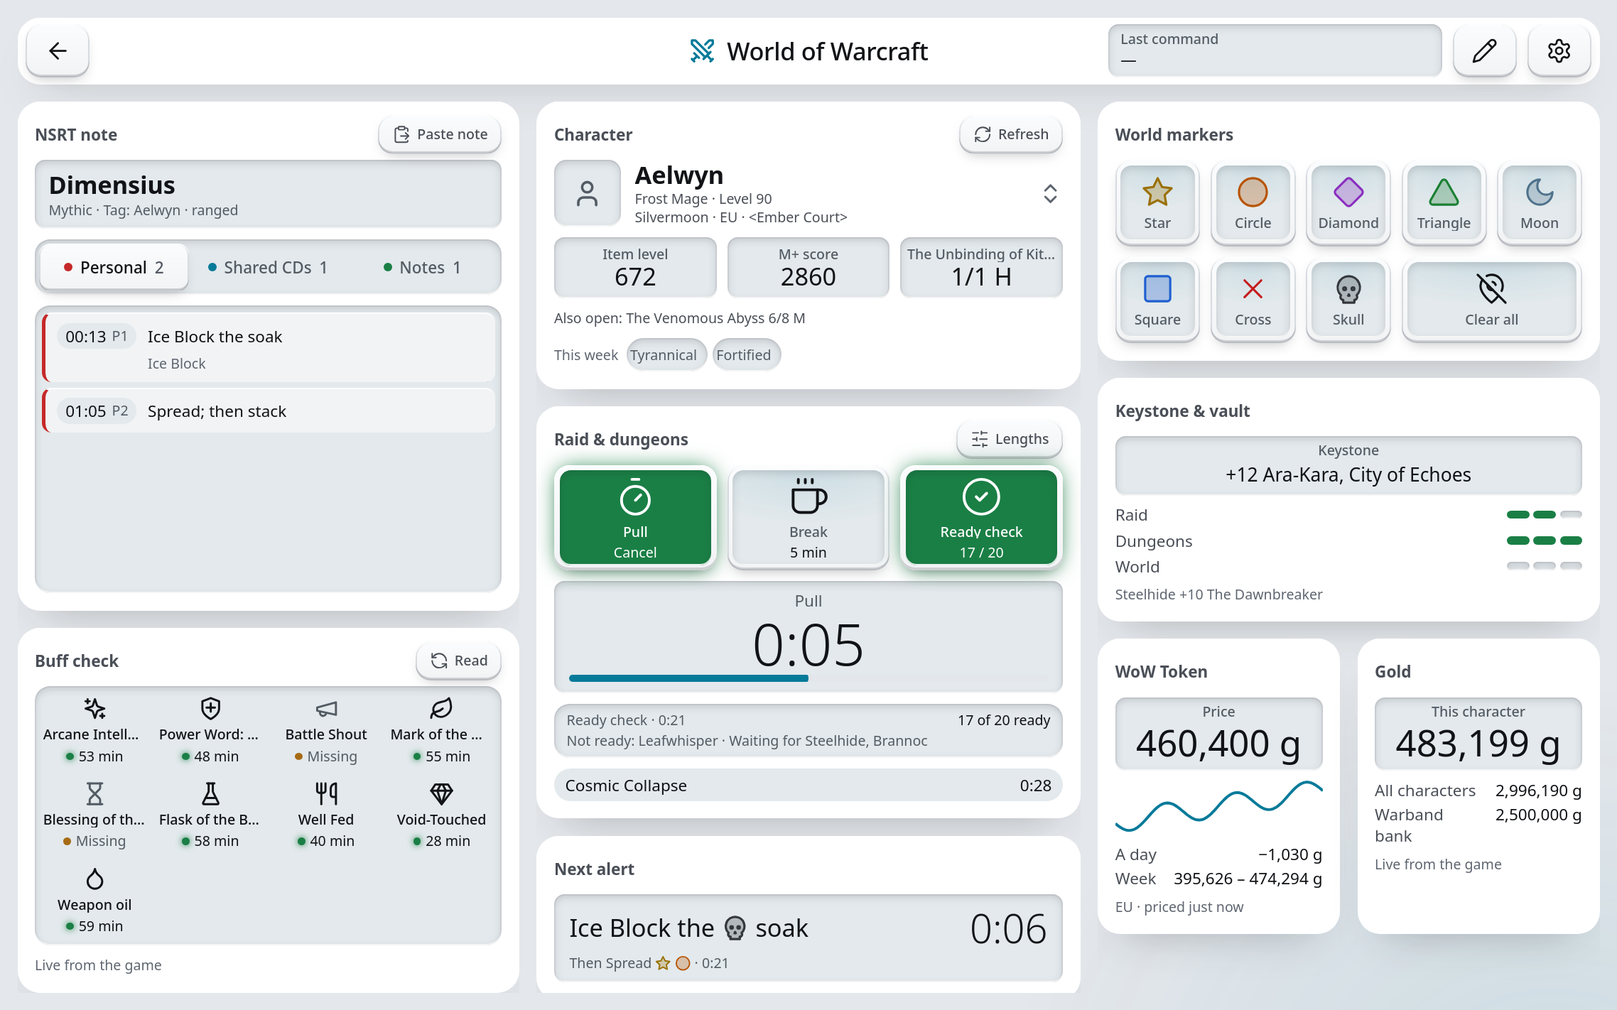
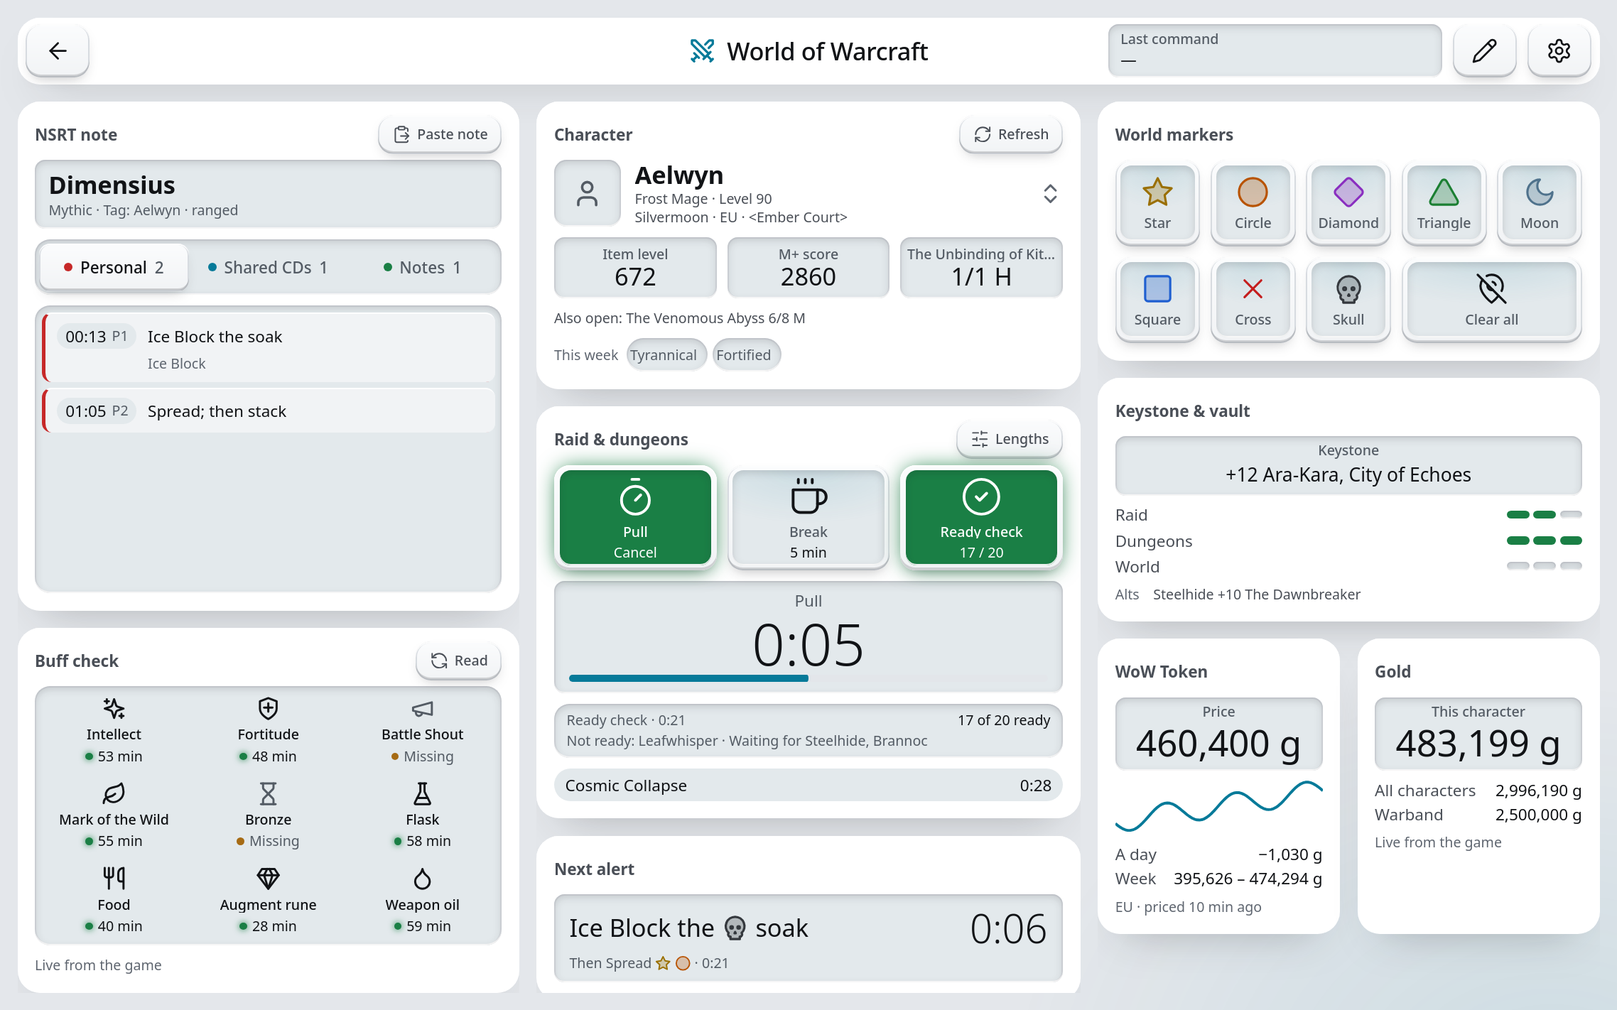
WoW page: design and UX fixes from a review
- Edit trays: a move that cannot happen is unlit (--line-strong); it was
  --text-3, as bright as the enabled --well-ink-2 in Graphite.
- Buff check: each cell names its check (Intellect, Flask, Augment rune);
  the buff found is in the tooltip. Cells are evened out per row (nine
  are 3 x 3, not 4 + 4 + 1).
- Key editor: opens scrolled to the key's command, marked by a lit edge;
  fields clear of the side's scroll bar.
- WoW settings: General in setup order (game folder first), a shorter
  addon paragraph; Install saves a typed folder first.
- Pickers: the search keeps its height, rows keep theirs (two-line
  descriptions overlapped), neutral glyphs with the current one lit,
  each opens at the top of its list.
- Keystone: the alts' keys are labelled; Gold: "Warband" on one line;
  Character: a raid's leading "The" dropped from its readout label.
- Phones: the last command is a row under the bar; the note's list is
  as tall as its reminders.
- Renders in docs/images/wow redone.

diff --git a/static/wow/core.js b/static/wow/core.js
@@ -332,6 +332,7 @@
             + (it.glyph ? `<i data-lucide="${esc(it.glyph)}" class="wow-pick-glyph"></i>` : '')
             + `<span class="wow-pick-text"><span class="wow-pick-name">${esc(it.label)}</span><span class="wow-pick-sub">${esc(it.sub || '')}</span></span>`
             + (it.current ? '<i data-lucide="check"></i>' : '') + '</button>').join('');
+        pickerEl.querySelector('.wow-picker-list').scrollTop = 0;   // one dialog for every picker: not where the last one was left
         const empty = pickerEl.querySelector('.wow-picker-empty');
         empty.hidden = items.length > 0;
         text(empty, o.empty || '');
@@ -918,6 +919,11 @@
         renderIcons(kedEl);
         kedEl.classList.add('active');
         q('.wow-keyed-search').focus({ preventScroll: true });
+        // The command the key sends now, in view: it was often far down the
+        // list (a raid warning under Chat), so nothing showed it chosen.
+        const list = q('.wow-keyed-list');
+        const row = list.querySelector('.wow-cmd-row[aria-selected="true"]');
+        if (row) list.scrollTop = Math.max(0, row.offsetTop - list.offsetTop - list.clientHeight / 3);
     }
 
     // A new key left empty is not kept.
@@ -1271,7 +1277,7 @@
     }
 
     function companionText(cs) {
-        if (!cs.installed) return server.settings.wow_path ? 'Not installed in this game folder.' : 'Set the game folder below first.';
+        if (!cs.installed) return server.settings.wow_path ? 'Not installed in this game folder.' : 'Set the game folder above first.';
         const old = cs.bundled && cs.installed !== cs.bundled;
         const seen = cs.link ? 'Its live link is on: this page shows the game as it changes.'
             : cs.answered == null ? 'It has not answered yet: /reload in WoW, and check it is on in the AddOns list.'
@@ -1285,13 +1291,13 @@
     function renderSettings() {
         const s = server.settings;
         const cs = server.companion || {};
-        setPanes.general.innerHTML = '<h3 class="settings-h">How keys reach the game</h3>'
-            + '<div class="notice"><i data-lucide="lightbulb"></i><p>WoW lets no addon talk to the PC, so the PC presses keys: WoW must be the window in front. '
-            + 'A key with a key slot is one key press (Ctrl+Alt+Shift+F1–F12), in combat too. With the Touch Dashboard addon, everything else goes through it without opening chat: an addon’s command it runs itself, Blizzard’s it loads into its run button (Ctrl+Alt+Shift+End). '
-            + 'In combat, or without the addon, Blizzard’s commands are typed into chat: Enter, Ctrl+V, Enter, and your clipboard is put back.</p></div>'
+        setPanes.general.innerHTML = '<h3 class="settings-h">Game folder</h3>'
+            + '<p class="settings-sub">The World of Warcraft folder, its _retail_ folder, or a SavedVariables folder. Checked every 5 seconds; WoW writes SavedVariables on /reload, logout and exit.</p>'
+            + `<div class="form-group"><label for="wow-set-path">Folder</label><input type="text" id="wow-set-path" maxlength="1024" autocomplete="off" spellcheck="false" placeholder="~/Games/battlenet/drive_c/Program Files (x86)/World of Warcraft/_retail_" value="${esc(s.wow_path)}"></div>`
+            + `<div class="form-group"><label for="wow-set-account">Account folder (optional)</label><input type="text" id="wow-set-account" maxlength="64" autocomplete="off" spellcheck="false" placeholder="The newest file wins" value="${esc(s.account)}"></div>`
+            + '<div class="wow-set-files"></div>'
             + '<h3 class="settings-h">Touch Dashboard addon</h3>'
-            + '<p class="settings-sub">Runs addon commands without chat, holds the key slots’ commands (no macros to make), runs Blizzard’s commands out of combat without chat, and shows this page your buffs, gold, bags, keystone and boss mod timers as they change: '
-            + 'a one-pixel line of coloured dots along the top edge of the game carries them, read from the game’s window (Linux; /tdc link off in WoW hides it). Once installed, this PC keeps it up to date in the game folder, and it tells you in game when a /reload would load a newer one. It reads only what the game lets addons see: nothing secret in combat, and no key is ever pressed because of what it reads.</p>'
+            + '<p class="settings-sub">Runs addon commands and Blizzard’s without opening chat, holds the key slots’ commands, and shows this page the game as it changes (Linux; /tdc link off in WoW hides its line of dots). This PC keeps it up to date, and it reads only what the game lets addons see.</p>'
             + '<div class="setting-group">'
             + settingRow('Use the addon', 'When it is installed', switchHtml('id="wow-set-companion"', s.companion !== false))
             + `<div class="setting-row"><div><label class="title">Status</label><label class="desc wow-comp-status">${esc(companionText(cs))}</label></div>`
@@ -1310,12 +1316,23 @@
             + ['eu', 'us', 'kr', 'tw'].map(r => `<option value="${r}"${s.region === r ? ' selected' : ''}>${r.toUpperCase()}</option>`).join('')
             + '</select></div>'
             + '</div>'
-            + '<h3 class="settings-h">Game folder</h3>'
-            + '<p class="settings-sub">The World of Warcraft folder, its _retail_ folder, or a SavedVariables folder. Checked every 5 seconds; WoW writes SavedVariables on /reload, logout and exit.</p>'
-            + `<div class="form-group"><label for="wow-set-path">Folder</label><input type="text" id="wow-set-path" maxlength="1024" autocomplete="off" spellcheck="false" placeholder="~/Games/battlenet/drive_c/Program Files (x86)/World of Warcraft/_retail_" value="${esc(s.wow_path)}"></div>`
-            + `<div class="form-group"><label for="wow-set-account">Account folder (optional)</label><input type="text" id="wow-set-account" maxlength="64" autocomplete="off" spellcheck="false" placeholder="The newest file wins" value="${esc(s.account)}"></div>`
-            + '<div class="wow-set-files"></div>';
-        setPanes.general.querySelector('[data-act="install"]').addEventListener('click', () => sendMessage({ type: 'wow_companion_install' }));
+            + '<h3 class="settings-h">How keys reach the game</h3>'
+            + '<div class="notice"><i data-lucide="lightbulb"></i><p>WoW lets no addon talk to the PC, so the PC presses keys: WoW must be the window in front. '
+            + 'A key with a key slot is one key press (Ctrl+Alt+Shift+F1–F12), in combat too. With the Touch Dashboard addon, everything else goes through it without opening chat: an addon’s command it runs itself, Blizzard’s it loads into its run button (Ctrl+Alt+Shift+End). '
+            + 'In combat, or without the addon, Blizzard’s commands are typed into chat: Enter, Ctrl+V, Enter, and your clipboard is put back.</p></div>';
+        // Install works from a folder typed but not saved yet: it is saved first
+        // (the server takes messages in order), so a first setup needs no
+        // round trip through Save.
+        const install = setPanes.general.querySelector('[data-act="install"]');
+        const pathIn = setPanes.general.querySelector('#wow-set-path');
+        pathIn.addEventListener('input', () => { install.disabled = !pathIn.value.trim(); });
+        install.addEventListener('click', () => {
+            const folder = { wow_path: pathIn.value.trim(), account: setPanes.general.querySelector('#wow-set-account').value.trim() };
+            if (folder.wow_path !== server.settings.wow_path || folder.account !== server.settings.account) {
+                sendMessage({ type: 'wow_settings_save', wow_addons: folder });
+            }
+            sendMessage({ type: 'wow_companion_install' });
+        });
         renderFiles();
 
         // Addons: one group each, its switch first.

diff --git a/static/wow/modules/game.js b/static/wow/modules/game.js
@@ -14,6 +14,13 @@
         intellect: 'sparkles', fortitude: 'shield-plus', shout: 'megaphone', wild: 'leaf', bronze: 'hourglass',
         skyfury: 'cloud-lightning', flask: 'flask-conical', food: 'utensils', rune: 'gem', weapon: 'droplet',
     };
+    // The check's own name on each cell; the buff the game has (a flask's,
+    // the rune's "Void-Touched") is in its tooltip and spoken label. The
+    // game's names ran past a cell: "Power Word: …", "Flask of the B…".
+    const SHORT = {
+        intellect: 'Intellect', fortitude: 'Fortitude', shout: 'Battle Shout', wild: 'Mark of the Wild', bronze: 'Bronze',
+        skyfury: 'Skyfury', flask: 'Flask', food: 'Food', rune: 'Augment rune', weapon: 'Weapon oil',
+    };
     const VAULT = [['raid', 'Raid'], ['dungeons', 'Dungeons'], ['world', 'World']];
     let data = null;
     let gotAt = 0;          // when `data` came, on this screen's clock
@@ -82,7 +89,22 @@
         ui.buffsNote.className = 'wow-cell-note';
         sec.append(ui.buffs, ui.buffsNote);
         ui.buffsDrawn = '';
+        if (ui.buffsFit) ui.buffsFit.disconnect();
+        ui.buffsFit = new ResizeObserver(fitBuffs);
+        ui.buffsFit.observe(ui.buffs);
         drawBuffs(api);
+    }
+
+    // As many cells to a row as fit (7.6rem each), then evened out: nine in
+    // three rows of three, not 4 + 4 and one alone.
+    function fitBuffs() {
+        const el = ui.buffs;
+        const n = el ? el.children.length : 0;
+        if (!n || !el.isConnected) return;
+        const rem = parseFloat(getComputedStyle(document.documentElement).fontSize) || 10;
+        const fit = Math.max(1, Math.floor((el.clientWidth - 0.3 * rem) / (7.9 * rem)));
+        const cols = String(Math.ceil(n / Math.ceil(n / fit)));
+        if (el.style.getPropertyValue('--cols') !== cols) el.style.setProperty('--cols', cols);
     }
 
     function drawBuffs(api) {
@@ -96,11 +118,14 @@
                 // While the game hides auras, one not seen is hidden, not missing
                 const cast = !c.ok && !c.hidden && c.cast;
                 const word = c.ok ? left(c.rem) : (c.hidden ? 'Hidden' : (cast ? 'Cast' : 'Missing'));
-                return `<${cast ? 'button' : 'div'} class="${cast ? 'btn ' : ''}wow-buff" ${cast ? `type="button" data-cast="${api.esc(c.cast)}"` : 'role="img"'} data-state="${c.ok ? 'on' : (c.hidden ? 'hidden' : 'off')}" aria-label="${api.esc(`${c.name}: ${cast ? 'missing, tap to cast' : word.toLowerCase()}`)}">`
-                    + `<span class="key-glyph"><i data-lucide="${GLYPHS[c.id] || 'circle'}"></i>${KEY_WARN}</span><span class="wow-buff-name">${api.esc(c.label || c.name)}</span>`
+                const name = SHORT[c.id] || c.name;
+                const full = c.label && c.label !== name ? `${name} (${c.label})` : c.name;
+                return `<${cast ? 'button' : 'div'} class="${cast ? 'btn ' : ''}wow-buff" ${cast ? `type="button" data-cast="${api.esc(c.cast)}"` : 'role="img"'} data-state="${c.ok ? 'on' : (c.hidden ? 'hidden' : 'off')}" title="${api.esc(full)}" aria-label="${api.esc(`${full}: ${cast ? 'missing, tap to cast' : word.toLowerCase()}`)}">`
+                    + `<span class="key-glyph"><i data-lucide="${GLYPHS[c.id] || 'circle'}"></i>${KEY_WARN}</span><span class="wow-buff-name">${api.esc(name)}</span>`
                     + `<span class="wow-buff-state"><span class="wow-buff-led" aria-hidden="true"></span><span class="wow-buff-word">${word}</span></span></${cast ? 'button' : 'div'}>`;
             }).join('');
             api.icons(ui.buffs);
+            fitBuffs();
         }
         ui.buffs.hidden = !checks.length;
         api.text(ui.buffsNote, status(api));
@@ -115,7 +140,7 @@
         sec.insertAdjacentHTML('beforeend', '<div class="wow-wallet">'
             + '<div class="scribble wow-gold-main"><span class="ch-name">This character</span><span class="live num wow-gold-fig"><span class="live-v">—</span></span></div>'
             + '<div class="wow-gold-lines"><div class="wow-gold-line"><span>All characters</span><span class="num" data-f="all">—</span></div>'
-            + '<div class="wow-gold-line"><span>Warband bank</span><span class="num" data-f="warband">—</span></div></div>'
+            + '<div class="wow-gold-line"><span title="Warband bank">Warband</span><span class="num" data-f="warband">—</span></div></div>'
             + '<p class="wow-cell-note"></p></div>');
         ui.wallet = sec.querySelector('.wow-wallet');
         drawWallet(api);
@@ -193,7 +218,7 @@
         ui.key.innerHTML = `<div class="scribble"><span class="ch-name">Keystone</span><span class="live num"><span class="live-v">${ks ? api.esc(`+${ks.level} ${ks.name || ''}`) : '—'}</span></span></div>`
             + '<div class="wow-vault">' + VAULT.map(([k, name]) => `<div class="wow-vault-row"><span>${name}</span><span class="wow-vault-pips" data-n="${v[k] || 0}">`
                 + [1, 2, 3].map(n => `<span class="wow-pip${(v[k] || 0) >= n ? ' is-on' : ''}"></span>`).join('') + '</span></div>').join('') + '</div>'
-            + (others.length ? '<div class="wow-key-alts">' + others.slice(0, 8).map(c => `<span>${api.esc(c.name)} <span class="num">+${c.keystone.level}</span> ${api.esc(c.keystone.name || '')}</span>`).join('') + '</div>' : '')
+            + (others.length ? '<div class="wow-key-alts"><span class="wow-key-alts-h">Alts</span>' + others.slice(0, 8).map(c => `<span>${api.esc(c.name)} <span class="num">+${c.keystone.level}</span> ${api.esc(c.keystone.name || '')}</span>`).join('') + '</div>' : '')
             + (me ? '' : `<p class="wow-cell-note">${api.esc(status(api))}</p>`);
     }
 

diff --git a/static/wow/wow.css b/static/wow/wow.css
@@ -370,12 +370,15 @@
     border: 0;
     border-radius: var(--radius-pill);
     background: transparent;
-    color: var(--well-ink-2);
+    color: var(--well-ink);
     cursor: pointer;
 }
 
+/* A move that cannot happen (the first column's ←, the top plate's ↑) is
+   unlit, well under the keys that act: up to v0.16.1 it was --text-3, as
+   bright as they were (--well-ink-2), so every arrow looked usable. */
 .wow-cell-tools button:disabled {
-    color: var(--text-3);
+    color: var(--line-strong);
     cursor: default;
 }
 
@@ -1025,7 +1028,7 @@
    buff your class casts is a key that casts it. */
 .wow-buffs {
     display: grid;
-    grid-template-columns: repeat(auto-fill, minmax(7.6rem, 1fr));
+    grid-template-columns: repeat(var(--cols, auto-fill), minmax(7.6rem, 1fr));
     gap: 0.3rem;
     padding: 0.3rem;
     background: var(--well);
@@ -1271,6 +1274,10 @@
     max-height: min(44rem, 88vh);
 }
 
+.wow-picker-search {
+    flex: none;
+}
+
 .wow-picker-list {
     display: flex;
     flex-direction: column;
@@ -1287,8 +1294,11 @@
     display: none;
 }
 
+/* Rows keep their height in the scrolling list (flex items shrink by
+   default: two-line descriptions ran into the next row). */
 .wow-pick-row {
     display: flex;
+    flex: none;
     align-items: center;
     gap: 1rem;
     min-height: 5rem;
@@ -1327,9 +1337,10 @@
 }
 
 .wow-pick-sub {
+    display: -webkit-box;
     overflow: hidden;
-    text-overflow: ellipsis;
-    white-space: nowrap;
+    -webkit-box-orient: vertical;
+    -webkit-line-clamp: 2;
     font-size: var(--fs-sm);
     color: var(--text-2);
 }
@@ -1338,7 +1349,16 @@
     flex: none;
     width: 1.6rem;
     height: 1.6rem;
-    color: var(--positive);
+    color: var(--text-2);
+}
+
+/* The row that is chosen now (the character played) */
+.wow-pick-row[aria-selected="true"] svg.lucide {
+    color: var(--accent);
+}
+
+.wow-pick-row[aria-selected="true"] .wow-pick-name {
+    font-weight: var(--weight-strong);
 }
 
 .wow-picker-empty {
@@ -1894,6 +1914,13 @@ svg.wow-alert-mark {
     color: var(--text-2);
 }
 
+.wow-gold-line > span:first-child {
+    min-width: 0;
+    overflow: hidden;
+    text-overflow: ellipsis;
+    white-space: nowrap;
+}
+
 .wow-gold-line .num {
     color: var(--text);
     font-family: var(--font-num);
@@ -2008,8 +2035,12 @@ svg.wow-alert-mark {
     display: flex;
     flex-wrap: wrap;
     gap: 0.3rem 1rem;
-    color: var(--text-3);
+    color: var(--text-2);
     font-size: var(--fs-xs);
+}
+
+.wow-key-alts-h {
+    color: var(--text-3);
 }
 
 /* ── Characters ───────────────────────────────────────────────────────── */
@@ -2088,6 +2119,7 @@ svg.wow-alert-mark {
     gap: 0.8rem;
     min-height: 0;
     overflow-y: auto;
+    padding: 0.2rem 1rem 0.2rem 0.2rem;
 }
 
 .wow-keyed-preview {
@@ -2154,6 +2186,7 @@ svg.wow-alert-mark {
 }
 
 .wow-cmd-row {
+    position: relative;
     display: flex;
     align-items: center;
     gap: 1rem;
@@ -2169,6 +2202,22 @@ svg.wow-alert-mark {
 
 .wow-cmd-row + .wow-cmd-row {
     border-top: var(--line-w) solid var(--line);
+}
+
+/* The command the key sends: a lit edge (by visibility, so choosing one
+   changes no shadow) on a raised tint. */
+.wow-cmd-row::before {
+    content: "";
+    position: absolute;
+    inset: 0.6rem auto 0.6rem 0;
+    width: 0.3rem;
+    border-radius: var(--radius-pill);
+    background: var(--accent);
+    visibility: hidden;
+}
+
+.wow-cmd-row[aria-selected="true"]::before {
+    visibility: visible;
 }
 
 .wow-cmd-row[aria-selected="true"] {
@@ -2301,12 +2350,33 @@ svg.wow-alert-mark {
     }
 
     .wow-bar {
-        grid-template-columns: auto minmax(0, 1fr) auto;
+        grid-template-columns: auto minmax(0, 1fr) auto auto;
+        row-gap: var(--gap-sm);
         flex: 0 0 auto;
     }
 
+    /* The bar's end gives its children to the bar: back, title, edit and
+       settings on the first row; what the last command did on the second,
+       full width (on a phone too a refused key says why). */
+    .wow-bar-end {
+        display: contents;
+    }
+
+    .wow-edit {
+        grid-area: 1 / 3;
+    }
+
+    .wow-gear {
+        grid-area: 1 / 4;
+    }
+
+    .wow-edit-acts {
+        grid-area: 1 / 3 / 2 / 5;
+    }
+
     .wow-last {
-        display: none;
+        grid-area: 2 / 1 / 3 / -1;
+        max-width: none;
     }
 
     .wow-grid {
@@ -2320,10 +2390,13 @@ svg.wow-alert-mark {
         overflow: visible;
     }
 
-    /* A list (the NSRT note) gets room of its own; the page scrolls. */
+    /* A list (the NSRT note) is as tall as what it holds, up to about a
+       screenful, then scrolls inside; the page scrolls. Up to v0.16.1 it
+       kept 24rem: two reminders sat over an empty well. */
     .wow-well {
         flex: 0 0 auto;
-        min-height: 24rem;
+        min-height: 6rem;
+        max-height: 48rem;
     }
 
     .wow-keyed {

diff --git a/static/wow/modules/char.js b/static/wow/modules/char.js
@@ -88,7 +88,10 @@
             api.text(ui.figs[0], c.ilvl != null ? String(Math.round(c.ilvl)) : '—');
             api.text(ui.figs[1], c.score != null ? String(c.score) : '—');
             const raid = (c.raids || [])[0];
-            api.text(ui.raidName, raid ? raid.name : 'Raid');
+            // A readout's label is one line: the raid without its leading "The"
+            // ("Unbinding of Kith'ix" fits where "The Unbinding of Kit…" did not); in full on hover.
+            api.text(ui.raidName, raid ? raid.name.replace(/^The\s+/i, '') : 'Raid');
+            ui.raidName.title = raid ? raid.name : '';
             api.text(ui.figs[2], raid && raid.summary ? raid.summary : '—');
             if (c.avatar && ui.img.getAttribute('src') !== c.avatar) { ui.img.hidden = false; ui.img.src = c.avatar; }
             if (!c.avatar) ui.img.hidden = true;

diff --git a/docs/WOW.md b/docs/WOW.md
@@ -91,9 +91,9 @@ The eight markers in their colours, star first as players know them; each lands 
 
 ### Buff check
 
-<img src="images/wow/plate-buffs.png" alt="The buff check on a raid night: Arcane Intellect 53 min, Power Word: Fortitude 48 min, Battle Shout missing, Mark of the Wild 55 min, Blessing of the Bronze missing, flask 58 min, Well Fed 40 min, the augment rune 28 min, weapon oil 59 min" width="420"> <img src="images/wow/plate-buffs-key.png" alt="The same check in a Mythic+ key: every buff reads Hidden, weapon oil still shows 59 min" width="420">
+<img src="images/wow/plate-buffs.png" alt="The buff check on a raid night, three rows of three: Intellect 53 min, Fortitude 48 min, Battle Shout missing, Mark of the Wild 55 min, Bronze missing, Flask 58 min, Food 40 min, Augment rune 28 min, Weapon oil 59 min" width="420"> <img src="images/wow/plate-buffs-key.png" alt="The same check in a Mythic+ key: every buff reads Hidden, weapon oil still shows 59 min" width="420">
 
-What you need before the pull, counting down: your food, flask, augment rune and weapon oil, and your own class's raid buff (with a key to cast it when it is missing). Another class's raid buff is asked for only when someone of that class is in your group. In combat, during a boss fight and for a whole Mythic+ key the game hides buffs from addons: then a buff it cannot see reads **Hidden**, not missing (weapon oil still shows), so the check is for before the pull. In a raid between pulls it reads as usual. The addon asks the game whether buffs are hidden at that moment, so the check never guesses.
+What you need before the pull, counting down: your food, flask, augment rune and weapon oil, and your own class's raid buff (with a key to cast it when it is missing). Another class's raid buff is asked for only when someone of that class is in your group. Each cell says what it checks (Flask, Augment rune); the buff the game found, such as your flask's name, is in its tooltip. In combat, during a boss fight and for a whole Mythic+ key the game hides buffs from addons: then a buff it cannot see reads **Hidden**, not missing (weapon oil still shows), so the check is for before the pull. In a raid between pulls it reads as usual. The addon asks the game whether buffs are hidden at that moment, so the check never guesses.
 
 ### NSRT note and its alerts
 
@@ -115,7 +115,7 @@ Your character from Raider.IO and Battle.net: item level, Mythic+ score, raid pr
 
 <img src="images/wow/plate-gold.png" alt="Gold: this character, all characters, the warband bank" width="200"> <img src="images/wow/plate-bags.png" alt="Bags: free slots, durability and a search across every character" width="380">
 
-<img src="images/wow/plate-keystone.png" alt="Keystone & vault: +12 Ara-Kara, the Great Vault's raid, dungeon and world rows, other characters' keys" width="380"> <img src="images/wow/plate-characters.png" alt="Characters: each with level, item level, gold, key and vault" width="320">
+<img src="images/wow/plate-keystone.png" alt="Keystone & vault: +12 Ara-Kara, the Great Vault's raid, dungeon and world rows, and the alts' keys" width="380"> <img src="images/wow/plate-characters.png" alt="Characters: each with level, item level, gold, key and vault" width="320">
 
 From the addon: gold on this character, on all of them and in the warband bank; free bag slots, durability, and a search through every character's bags (and banks, once opened); your keystone and this week's Great Vault; every character the addon has seen. Characters you are not playing are as of their last logout or `/reload`.
 
